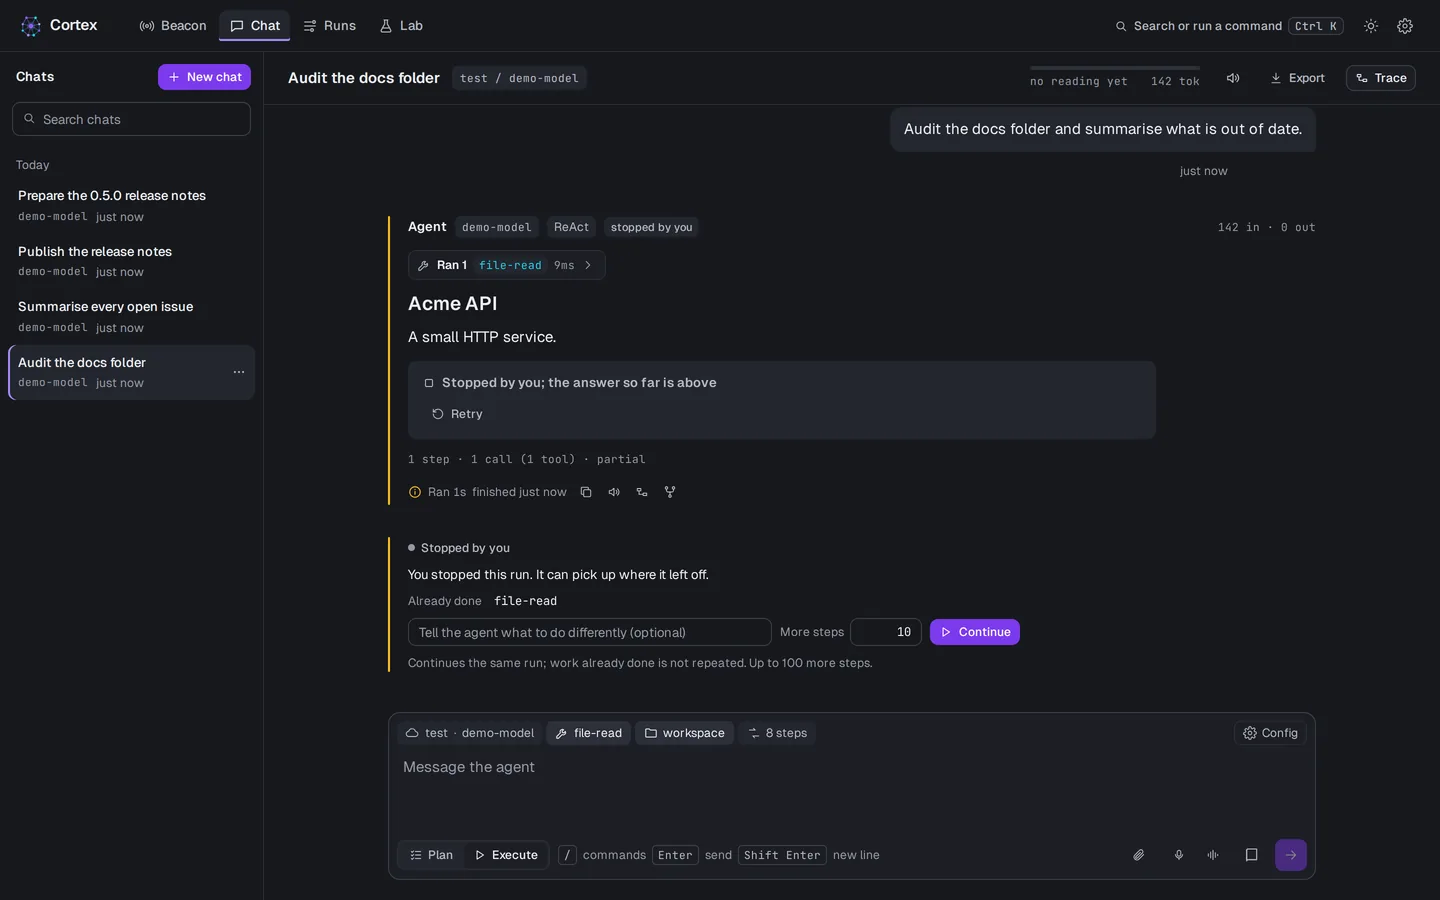
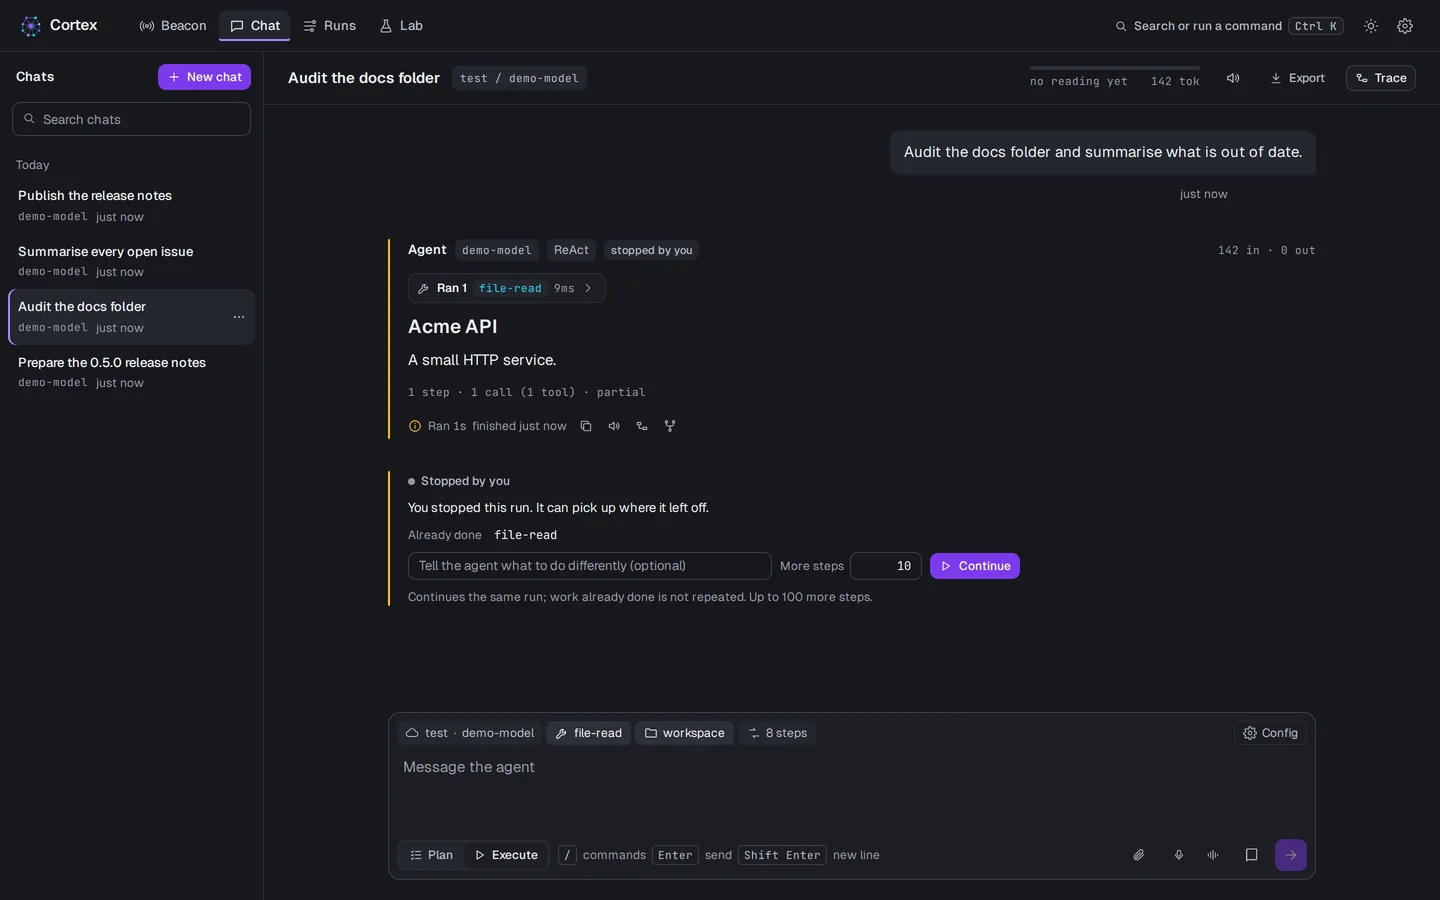
feat(cortex): recapture beacon and stopped-run shots after the one-card Stop and stronger rings
Beacon and reduced-motion beacon show the stronger idle sonar rings; the
stopped-run shot and its crop show the single Stopped by you card with Continue.
Only these four images changed; the other 17 are byte-identical.

diff --git a/apps/cortex/scripts/docs-screenshots/shots.ts b/apps/cortex/scripts/docs-screenshots/shots.ts
@@ -123,7 +123,7 @@ export const SHOTS: readonly Shot[] = [
     route: "/chat",
     caption: "A durable run you stopped keeps its place. Continue resumes the same run without repeating finished work.",
     alt: "Cortex chat showing 'Stopped by you' with the tool already done, an optional note for the agent, and a Continue button.",
-    crop: { x: 380, y: 190, width: 960, height: 600, shows: "The Stopped by you card with the finished tool, the note field and the Continue button." },
+    crop: { x: 380, y: 215, width: 960, height: 600, shows: "The Stopped by you card with the finished tool, the note field and the Continue button." },
     async capture({ page, base, sessionId }) {
       await page.goto(`${base}/chat?session=${sessionId("Audit the docs folder")}`);
       await page.getByRole("button", { name: "Continue" }).waitFor();
